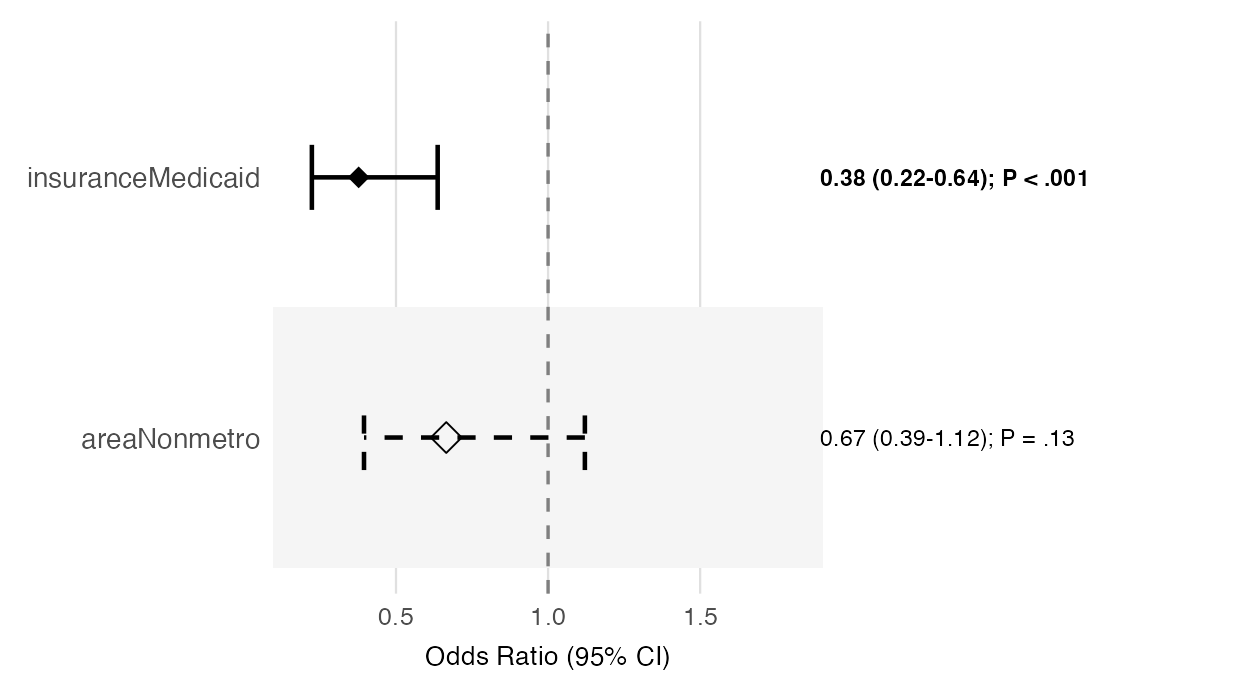
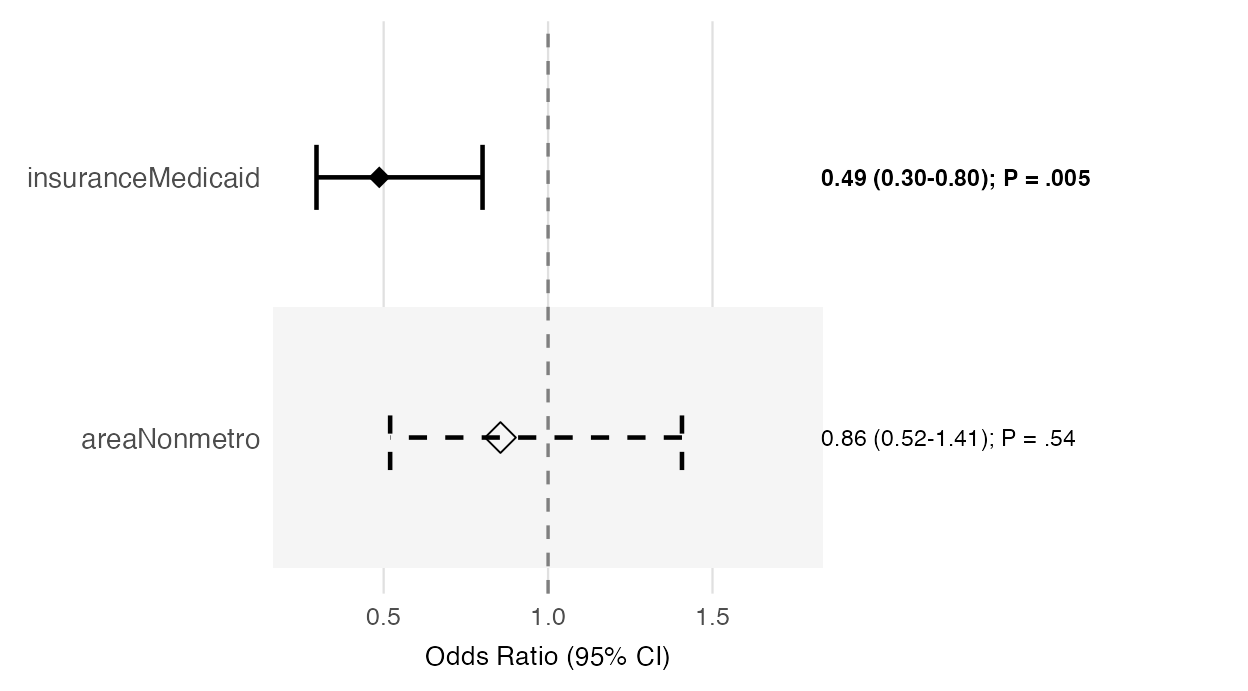
Deploy 1.6.2.9005: SDC vignette + Table1/ICC/power/diagnostics/reproducibility

diff --git a/articles/supplementary-digital-content.html b/articles/supplementary-digital-content.html
@@ -26,7 +26,7 @@
 
     <a class="navbar-brand me-2" href="../index.html">mysterycall</a>
 
-    <small class="nav-text text-muted me-auto" data-bs-toggle="tooltip" data-bs-placement="bottom" title="">1.6.2.9004</small>
+    <small class="nav-text text-muted me-auto" data-bs-toggle="tooltip" data-bs-placement="bottom" title="">1.6.2.9005</small>
 
 
     <button class="navbar-toggler" type="button" data-bs-toggle="collapse" data-bs-target="#navbar" aria-controls="navbar" aria-expanded="false" aria-label="Toggle navigation">
@@ -143,7 +143,8 @@ offer and a Poisson GLMM for the wait.</p>
 <span>  call_date  <span class="op">=</span> <span class="fu"><a href="https://rdrr.io/r/base/rep.html" class="external-link">rep</a></span><span class="op">(</span><span class="fu"><a href="https://rdrr.io/r/base/as.Date.html" class="external-link">as.Date</a></span><span class="op">(</span><span class="st">"2026-01-05"</span><span class="op">)</span> <span class="op">+</span> <span class="fu"><a href="https://rdrr.io/r/base/sample.html" class="external-link">sample</a></span><span class="op">(</span><span class="fl">0</span><span class="op">:</span><span class="fl">40</span>, <span class="va">n</span>, <span class="cn">TRUE</span><span class="op">)</span>, each <span class="op">=</span> <span class="fl">2</span><span class="op">)</span>,</span>
 <span>  state      <span class="op">=</span> <span class="fu"><a href="https://rdrr.io/r/base/rep.html" class="external-link">rep</a></span><span class="op">(</span><span class="va">st</span>, each <span class="op">=</span> <span class="fl">2</span><span class="op">)</span>,</span>
 <span>  city       <span class="op">=</span> <span class="fu"><a href="https://rdrr.io/r/base/rep.html" class="external-link">rep</a></span><span class="op">(</span><span class="fu"><a href="https://rdrr.io/r/base/unlist.html" class="external-link">unlist</a></span><span class="op">(</span><span class="va">cities</span><span class="op">)</span><span class="op">[</span><span class="va">st</span><span class="op">]</span>, each <span class="op">=</span> <span class="fl">2</span><span class="op">)</span>,</span>
-<span>  area       <span class="op">=</span> <span class="fu"><a href="https://rdrr.io/r/base/rep.html" class="external-link">rep</a></span><span class="op">(</span><span class="fu"><a href="https://rdrr.io/r/base/sample.html" class="external-link">sample</a></span><span class="op">(</span><span class="fu"><a href="https://rdrr.io/r/base/c.html" class="external-link">c</a></span><span class="op">(</span><span class="st">"Metro"</span>, <span class="st">"Nonmetro"</span><span class="op">)</span>, <span class="va">n</span>, <span class="cn">TRUE</span><span class="op">)</span>, each <span class="op">=</span> <span class="fl">2</span><span class="op">)</span></span>
+<span>  area       <span class="op">=</span> <span class="fu"><a href="https://rdrr.io/r/base/rep.html" class="external-link">rep</a></span><span class="op">(</span><span class="fu"><a href="https://rdrr.io/r/base/sample.html" class="external-link">sample</a></span><span class="op">(</span><span class="fu"><a href="https://rdrr.io/r/base/c.html" class="external-link">c</a></span><span class="op">(</span><span class="st">"Metro"</span>, <span class="st">"Nonmetro"</span><span class="op">)</span>, <span class="va">n</span>, <span class="cn">TRUE</span><span class="op">)</span>, each <span class="op">=</span> <span class="fl">2</span><span class="op">)</span>,</span>
+<span>  degree     <span class="op">=</span> <span class="fu"><a href="https://rdrr.io/r/base/rep.html" class="external-link">rep</a></span><span class="op">(</span><span class="fu"><a href="https://rdrr.io/r/base/sample.html" class="external-link">sample</a></span><span class="op">(</span><span class="fu"><a href="https://rdrr.io/r/base/c.html" class="external-link">c</a></span><span class="op">(</span><span class="st">"MD"</span>, <span class="st">"DO"</span><span class="op">)</span>, <span class="va">n</span>, <span class="cn">TRUE</span>, <span class="fu"><a href="https://rdrr.io/r/base/c.html" class="external-link">c</a></span><span class="op">(</span><span class="fl">.8</span>, <span class="fl">.2</span><span class="op">)</span><span class="op">)</span>, each <span class="op">=</span> <span class="fl">2</span><span class="op">)</span></span>
 <span><span class="op">)</span></span>
 <span><span class="va">med</span> <span class="op">&lt;-</span> <span class="va">d</span><span class="op">$</span><span class="va">insurance</span> <span class="op">==</span> <span class="st">"Medicaid"</span></span>
 <span><span class="va">d</span><span class="op">$</span><span class="va">reached</span> <span class="op">&lt;-</span> <span class="fu"><a href="https://rdrr.io/r/stats/Binomial.html" class="external-link">rbinom</a></span><span class="op">(</span><span class="fu"><a href="https://rdrr.io/r/base/nrow.html" class="external-link">nrow</a></span><span class="op">(</span><span class="va">d</span><span class="op">)</span>, <span class="fl">1</span>, <span class="fl">0.92</span><span class="op">)</span> <span class="op">==</span> <span class="fl">1</span>   <span class="co"># some calls never reached a live office</span></span>
@@ -188,13 +189,13 @@ coefficient to its term.</p>
 <span><span class="va">tS1</span></span>
 <span><span class="co">#&gt; Multi-model regression table  [OR (95% CI)]</span></span>
 <span><span class="co">#&gt; ------------------------------------------------------------ </span></span>
-<span><span class="co">#&gt;  Term                Crude                        Adjusted                    </span></span>
-<span><span class="co">#&gt;  insuranceCommercial Ref.                         Ref.                        </span></span>
-<span><span class="co">#&gt;  insuranceMedicaid   0.38 (0.23-0.64) | p=&lt; 0.001 0.38 (0.22-0.64) | p=&lt; 0.001</span></span>
-<span><span class="co">#&gt;  areaMetro                                        Ref.                        </span></span>
-<span><span class="co">#&gt;  areaNonmetro                                     0.67 (0.39-1.12) | p=0.126  </span></span>
-<span><span class="co">#&gt;  N                   300                          300                         </span></span>
-<span><span class="co">#&gt;  AIC                 353.5                        353.1                       </span></span>
+<span><span class="co">#&gt;  Term                Crude                      Adjusted                  </span></span>
+<span><span class="co">#&gt;  insuranceCommercial Ref.                       Ref.                      </span></span>
+<span><span class="co">#&gt;  insuranceMedicaid   0.49 (0.30-0.80) | p=0.005 0.49 (0.30-0.80) | p=0.005</span></span>
+<span><span class="co">#&gt;  areaMetro                                      Ref.                      </span></span>
+<span><span class="co">#&gt;  areaNonmetro                                   0.86 (0.52-1.41) | p=0.538</span></span>
+<span><span class="co">#&gt;  N                   300                        300                       </span></span>
+<span><span class="co">#&gt;  AIC                 372.4                      374.0                     </span></span>
 <span><span class="co">#&gt; ------------------------------------------------------------</span></span></code></pre></div>
 <p><strong>Table S2 — the disparity, with confidence
 intervals.</strong></p>
@@ -205,14 +206,14 @@ intervals.</strong></p>
 <span><span class="co">#&gt; Disparity table -- 2 groups | ref: 'Commercial' | wilson 95% CI</span></span>
 <span><span class="co">#&gt; Group                       n  n_acc     Rate  95% CI            Abs.Diff  RR (95% CI)             p-value</span></span>
 <span><span class="co">#&gt; ---------------------------------------------------------------------------------------------------- </span></span>
-<span><span class="co">#&gt; Commercial                150    121    80.7%  73.6%-86.2%          (ref)  1.00 (ref)              (ref)</span></span>
-<span><span class="co">#&gt; Medicaid                  150     92    61.3%  53.3%-68.8%       -19.3 pp  0.76 (0.65-0.88)        p &lt; 0.001</span></span></code></pre></div>
+<span><span class="co">#&gt; Commercial                150    114    76.0%  68.6%-82.1%          (ref)  1.00 (ref)              (ref)</span></span>
+<span><span class="co">#&gt; Medicaid                  150     91    60.7%  52.7%-68.1%       -15.3 pp  0.80 (0.68-0.93)        p = 0.004</span></span></code></pre></div>
 <p><strong>Table S3 — adjusted effect on the absolute
 scale.</strong></p>
 <div class="sourceCode" id="cb7"><pre class="downlit sourceCode r">
 <code class="sourceCode R"><span><span class="fu"><a href="../reference/mysterycall_combined_results_table.html">mysterycall_combined_results_table</a></span><span class="op">(</span><span class="va">wait_model</span><span class="op">)</span></span>
 <span><span class="co">#&gt;                Term  IRR IRR 95% CI p-value Days Diff Days 95% CI Significance</span></span>
-<span><span class="co">#&gt; 1 insuranceMedicaid 1.56  1.44-1.68 &lt; 0.001      &lt;NA&gt;        &lt;NA&gt;            *</span></span></code></pre></div>
+<span><span class="co">#&gt; 1 insuranceMedicaid 1.52  1.41-1.64 &lt; 0.001      &lt;NA&gt;        &lt;NA&gt;            *</span></span></code></pre></div>
 <p><strong>Table S4 — this study against prior work.</strong></p>
 <div class="sourceCode" id="cb8"><pre class="downlit sourceCode r">
 <code class="sourceCode R"><span><span class="va">prior</span> <span class="op">&lt;-</span> <span class="fu"><a href="https://rdrr.io/r/base/data.frame.html" class="external-link">data.frame</a></span><span class="op">(</span></span>
@@ -248,9 +249,9 @@ completely at random” and a threat to validity.</p>
 <span>  <span class="va">d</span>, outcome_col <span class="op">=</span> <span class="st">"wait_days"</span>, group_col <span class="op">=</span> <span class="st">"insurance"</span><span class="op">)</span></span>
 <span><span class="va">miss</span><span class="op">$</span><span class="va">summary</span></span>
 <span><span class="co">#&gt;    variable n_observed n_missing pct_missing       test statistic df    p_value</span></span>
-<span><span class="co">#&gt; 1 insurance        300         0        38.3 Chi-square  4.075206  1 0.04351697</span></span>
+<span><span class="co">#&gt; 1 insurance        300         0        40.7 Chi-square  2.707681  1 0.09986607</span></span>
 <span><span class="co">#&gt;   significant</span></span>
-<span><span class="co">#&gt; 1        TRUE</span></span></code></pre></div>
+<span><span class="co">#&gt; 1       FALSE</span></span></code></pre></div>
 </div>
 <div class="section level2">
 <h2 id="per-caller-evaluation">5. Per-caller evaluation<a class="anchor" aria-label="anchor" href="#per-caller-evaluation"></a>
@@ -264,11 +265,11 @@ would flag a standardization problem.</p>
 <code class="sourceCode R"><span><span class="fu"><a href="../reference/mysterycall_call_productivity.html">mysterycall_call_productivity</a></span><span class="op">(</span></span>
 <span>  <span class="va">d</span>, caller_col <span class="op">=</span> <span class="st">"caller"</span>, date_col <span class="op">=</span> <span class="st">"call_date"</span>, outcome_col <span class="op">=</span> <span class="st">"appt_offered"</span><span class="op">)</span></span>
 <span><span class="co">#&gt;   caller n_calls n_days calls_per_day n_accepted acceptance_rate mean_hold_sec</span></span>
-<span><span class="co">#&gt; 1    RA2      74     23      3.217391         52           70.3%            NA</span></span>
-<span><span class="co">#&gt; 2    RA4      58     18      3.222222         44           75.9%            NA</span></span>
-<span><span class="co">#&gt; 3    RA5      58     21      2.761905         41           70.7%            NA</span></span>
-<span><span class="co">#&gt; 4    RA1      56     18      3.111111         39           69.6%            NA</span></span>
-<span><span class="co">#&gt; 5    RA3      54     19      2.842105         37           68.5%            NA</span></span>
+<span><span class="co">#&gt; 1    RA2      74     23      3.217391         45           60.8%            NA</span></span>
+<span><span class="co">#&gt; 2    RA4      58     18      3.222222         41           70.7%            NA</span></span>
+<span><span class="co">#&gt; 3    RA5      58     21      2.761905         43           74.1%            NA</span></span>
+<span><span class="co">#&gt; 4    RA1      56     18      3.111111         40           71.4%            NA</span></span>
+<span><span class="co">#&gt; 5    RA3      54     19      2.842105         36           66.7%            NA</span></span>
 <span><span class="co">#&gt;   mean_call_sec</span></span>
 <span><span class="co">#&gt; 1            NA</span></span>
 <span><span class="co">#&gt; 2            NA</span></span>
@@ -395,9 +396,9 @@ to failure, then to success:</p>
 <div class="sourceCode" id="cb20"><pre class="downlit sourceCode r">
 <code class="sourceCode R"><span><span class="fu"><a href="../reference/mysterycall_outcome_bounds.html">mysterycall_outcome_bounds</a></span><span class="op">(</span><span class="va">d</span>, <span class="st">"appt_offered"</span>, observed <span class="op">=</span> <span class="st">"reached"</span><span class="op">)</span></span>
 <span><span class="co">#&gt; &lt;mysterycall outcome bounds under non-response&gt;</span></span>
-<span><span class="co">#&gt;   universe 300 = observed 270 + missing 30; positives 191</span></span>
-<span><span class="co">#&gt;   complete-case rate: 70.7%  (95% CI 65.1%-75.8%)</span></span>
-<span><span class="co">#&gt;   bounds over universe: [63.7% (all missing fail), 73.7% (all succeed)]  width 10.0%</span></span></code></pre></div>
+<span><span class="co">#&gt;   universe 300 = observed 280 + missing 20; positives 191</span></span>
+<span><span class="co">#&gt;   complete-case rate: 68.2%  (95% CI 62.5%-73.4%)</span></span>
+<span><span class="co">#&gt;   bounds over universe: [63.7% (all missing fail), 70.3% (all succeed)]  width 6.7%</span></span></code></pre></div>
 <p><strong>Leave-one-caller-out.</strong> Confirm the exposure effect
 does not hinge on a single research assistant by refitting with each
 caller dropped in turn:</p>
@@ -405,15 +406,15 @@ caller dropped in turn:</p>
 <code class="sourceCode R"><span><span class="va">fit_glm</span> <span class="op">&lt;-</span> <span class="fu"><a href="https://rdrr.io/r/stats/glm.html" class="external-link">glm</a></span><span class="op">(</span><span class="va">appt_offered</span> <span class="op">~</span> <span class="va">insurance</span> <span class="op">+</span> <span class="va">area</span>, <span class="va">binomial</span>, <span class="va">d</span><span class="op">)</span></span>
 <span><span class="fu"><a href="../reference/mysterycall_leave_one_out.html">mysterycall_leave_one_out</a></span><span class="op">(</span><span class="va">fit_glm</span>, <span class="va">d</span>, group <span class="op">=</span> <span class="st">"caller"</span>, term <span class="op">=</span> <span class="st">"insuranceMedicaid"</span><span class="op">)</span></span>
 <span><span class="co">#&gt; &lt;mysterycall leave-one-group-out: term 'insuranceMedicaid', 5 refits&gt;</span></span>
-<span><span class="co">#&gt;   full-data ratio: 0.38 (p = 0.000266)</span></span>
+<span><span class="co">#&gt;   full-data ratio: 0.49 (p = 0.00459)</span></span>
 <span><span class="co">#&gt; <span style="color: #949494;"># A tibble: 5 × 7</span></span></span>
-<span><span class="co">#&gt;   group_excluded     n estimate ratio std_error  p_value converged</span></span>
-<span><span class="co">#&gt;   <span style="color: #949494; font-style: italic;">&lt;chr&gt;</span>          <span style="color: #949494; font-style: italic;">&lt;int&gt;</span>    <span style="color: #949494; font-style: italic;">&lt;dbl&gt;</span> <span style="color: #949494; font-style: italic;">&lt;dbl&gt;</span>     <span style="color: #949494; font-style: italic;">&lt;dbl&gt;</span>    <span style="color: #949494; font-style: italic;">&lt;dbl&gt;</span> <span style="color: #949494; font-style: italic;">&lt;lgl&gt;</span>    </span></span>
-<span><span class="co">#&gt; <span style="color: #BCBCBC;">1</span> RA1              244   -<span style="color: #BB0000;">0.998</span> 0.369     0.298 0.000<span style="text-decoration: underline;">807</span> TRUE     </span></span>
-<span><span class="co">#&gt; <span style="color: #BCBCBC;">2</span> RA2              226   -<span style="color: #BB0000;">1.06</span>  0.345     0.316 0.000<span style="text-decoration: underline;">743</span> TRUE     </span></span>
-<span><span class="co">#&gt; <span style="color: #BCBCBC;">3</span> RA3              246   -<span style="color: #BB0000;">0.824</span> 0.439     0.294 0.004<span style="text-decoration: underline;">99</span>  TRUE     </span></span>
-<span><span class="co">#&gt; <span style="color: #BCBCBC;">4</span> RA4              242   -<span style="color: #BB0000;">1.01</span>  0.363     0.294 0.000<span style="text-decoration: underline;">570</span> TRUE     </span></span>
-<span><span class="co">#&gt; <span style="color: #BCBCBC;">5</span> RA5              242   -<span style="color: #BB0000;">1.00</span>  0.368     0.298 0.000<span style="text-decoration: underline;">796</span> TRUE</span></span></code></pre></div>
+<span><span class="co">#&gt;   group_excluded     n estimate ratio std_error p_value converged</span></span>
+<span><span class="co">#&gt;   <span style="color: #949494; font-style: italic;">&lt;chr&gt;</span>          <span style="color: #949494; font-style: italic;">&lt;int&gt;</span>    <span style="color: #949494; font-style: italic;">&lt;dbl&gt;</span> <span style="color: #949494; font-style: italic;">&lt;dbl&gt;</span>     <span style="color: #949494; font-style: italic;">&lt;dbl&gt;</span>   <span style="color: #949494; font-style: italic;">&lt;dbl&gt;</span> <span style="color: #949494; font-style: italic;">&lt;lgl&gt;</span>    </span></span>
+<span><span class="co">#&gt; <span style="color: #BCBCBC;">1</span> RA1              244   -<span style="color: #BB0000;">0.570</span> 0.566     0.278 0.040<span style="text-decoration: underline;">5</span>  TRUE     </span></span>
+<span><span class="co">#&gt; <span style="color: #BCBCBC;">2</span> RA2              226   -<span style="color: #BB0000;">0.786</span> 0.455     0.301 0.009<span style="text-decoration: underline;">10</span> TRUE     </span></span>
+<span><span class="co">#&gt; <span style="color: #BCBCBC;">3</span> RA3              246   -<span style="color: #BB0000;">0.730</span> 0.482     0.282 0.009<span style="text-decoration: underline;">56</span> TRUE     </span></span>
+<span><span class="co">#&gt; <span style="color: #BCBCBC;">4</span> RA4              242   -<span style="color: #BB0000;">0.614</span> 0.541     0.280 0.028<span style="text-decoration: underline;">4</span>  TRUE     </span></span>
+<span><span class="co">#&gt; <span style="color: #BCBCBC;">5</span> RA5              242   -<span style="color: #BB0000;">0.918</span> 0.399     0.283 0.001<span style="text-decoration: underline;">19</span> TRUE</span></span></code></pre></div>
 <p>Other analyses worth including, each a single call: the wait model
 under an alternative count family
 (<code><a href="../reference/mysterycall_compare_count_families.html">mysterycall_compare_count_families()</a></code>), calendar vs.
@@ -423,26 +424,145 @@ physician”), and Benjamini–Hochberg-adjusted p-values
 (<code><a href="../reference/mysterycall_multiple_comparison_adjust.html">mysterycall_multiple_comparison_adjust()</a></code>).</p>
 </div>
 <div class="section level2">
-<h2 id="export-and-manifest">10. Export and manifest<a class="anchor" aria-label="anchor" href="#export-and-manifest"></a>
+<h2 id="baseline-characteristics-table-1">10. Baseline characteristics (Table 1)<a class="anchor" aria-label="anchor" href="#baseline-characteristics-table-1"></a>
+</h2>
+<p>Reviewers want to know who was sampled.
+<code><a href="../reference/mysterycall_table1.html">mysterycall_table1()</a></code> builds a publication-ready baseline
+table at the practice level:</p>
+<div class="sourceCode" id="cb22"><pre class="downlit sourceCode r">
+<code class="sourceCode R"><span><span class="va">practices</span> <span class="op">&lt;-</span> <span class="fu"><a href="https://rdrr.io/r/base/unique.html" class="external-link">unique</a></span><span class="op">(</span><span class="va">d</span><span class="op">[</span>, <span class="fu"><a href="https://rdrr.io/r/base/c.html" class="external-link">c</a></span><span class="op">(</span><span class="st">"npi"</span>, <span class="st">"state"</span>, <span class="st">"area"</span>, <span class="st">"degree"</span><span class="op">)</span><span class="op">]</span><span class="op">)</span></span>
+<span><span class="fu"><a href="../reference/mysterycall_table1.html">mysterycall_table1</a></span><span class="op">(</span><span class="va">practices</span>, covariates <span class="op">=</span> <span class="fu"><a href="https://rdrr.io/r/base/c.html" class="external-link">c</a></span><span class="op">(</span><span class="st">"state"</span>, <span class="st">"degree"</span><span class="op">)</span>,</span>
+<span>                   stratify_by <span class="op">=</span> <span class="st">"area"</span>, include_overall <span class="op">=</span> <span class="cn">TRUE</span><span class="op">)</span></span>
+<span><span class="co">#&gt; Table 1 (Overall N=150, Metro N=67, Nonmetro N=83)</span></span>
+<span><span class="co">#&gt; Stratified by: area</span></span>
+<span><span class="co">#&gt; </span></span>
+<span><span class="co">#&gt; <span style="color: #949494;"># A tibble: 8 × 6</span></span></span>
+<span><span class="co">#&gt;   variable level Overall     `Metro (N=67)` `Nonmetro (N=83)` p_value</span></span>
+<span><span class="co">#&gt;   <span style="color: #949494; font-style: italic;">&lt;chr&gt;</span>    <span style="color: #949494; font-style: italic;">&lt;chr&gt;</span> <span style="color: #949494; font-style: italic;">&lt;chr&gt;</span>       <span style="color: #949494; font-style: italic;">&lt;chr&gt;</span>          <span style="color: #949494; font-style: italic;">&lt;chr&gt;</span>             <span style="color: #949494; font-style: italic;">&lt;chr&gt;</span>  </span></span>
+<span><span class="co">#&gt; <span style="color: #BCBCBC;">1</span> state    CA    29 (19.3%)  16 (23.9%)     13 (15.7%)        0.046  </span></span>
+<span><span class="co">#&gt; <span style="color: #BCBCBC;">2</span> state    CO    27 (18.0%)  12 (17.9%)     15 (18.1%)        <span style="color: #BB0000;">NA</span>     </span></span>
+<span><span class="co">#&gt; <span style="color: #BCBCBC;">3</span> state    FL    36 (24.0%)  11 (16.4%)     25 (30.1%)        <span style="color: #BB0000;">NA</span>     </span></span>
+<span><span class="co">#&gt; <span style="color: #BCBCBC;">4</span> state    IL    15 (10.0%)  4 (6.0%)       11 (13.3%)        <span style="color: #BB0000;">NA</span>     </span></span>
+<span><span class="co">#&gt; <span style="color: #BCBCBC;">5</span> state    NY    20 (13.3%)  14 (20.9%)     6 (7.2%)          <span style="color: #BB0000;">NA</span>     </span></span>
+<span><span class="co">#&gt; <span style="color: #BCBCBC;">6</span> state    TX    23 (15.3%)  10 (14.9%)     13 (15.7%)        <span style="color: #BB0000;">NA</span>     </span></span>
+<span><span class="co">#&gt; <span style="color: #BCBCBC;">7</span> degree   DO    42 (28.0%)  16 (23.9%)     26 (31.3%)        0.313  </span></span>
+<span><span class="co">#&gt; <span style="color: #BCBCBC;">8</span> degree   MD    108 (72.0%) 51 (76.1%)     57 (68.7%)        <span style="color: #BB0000;">NA</span></span></span></code></pre></div>
+</div>
+<div class="section level2">
+<h2 id="full-model-output-icc-and-variance-components">11. Full model output: ICC and variance components<a class="anchor" aria-label="anchor" href="#full-model-output-icc-and-variance-components"></a>
+</h2>
+<p>The SDC should report more than the exposure coefficient — the
+clustering matters. <code><a href="../reference/mysterycall_icc.html">mysterycall_icc()</a></code> gives the intraclass
+correlation (how much of the variation sits between practices), and
+<code><a href="../reference/mysterycall_random_effect_variance.html">mysterycall_random_effect_variance()</a></code> the variance
+components:</p>
+<div class="sourceCode" id="cb23"><pre class="downlit sourceCode r">
+<code class="sourceCode R"><span><span class="fu"><a href="../reference/mysterycall_icc.html">mysterycall_icc</a></span><span class="op">(</span><span class="va">wait_model</span><span class="op">)</span></span>
+<span><span class="co">#&gt; Intraclass Correlation Coefficient (latent_variable_poisson)</span></span>
+<span><span class="co">#&gt;   ICC       = 0.0000</span></span>
+<span><span class="co">#&gt;   sigma2_u  = 0.0000  (physician random-intercept variance)</span></span>
+<span><span class="co">#&gt; </span></span>
+<span><span class="co">#&gt; ICC = 0.000: 0.0% of outcome variance is attributable to between-physician clustering.</span></span>
+<span><span class="fu"><a href="../reference/mysterycall_random_effect_variance.html">mysterycall_random_effect_variance</a></span><span class="op">(</span><span class="va">wait_model</span><span class="op">$</span><span class="va">model</span><span class="op">)</span></span>
+<span><span class="co">#&gt; $icc</span></span>
+<span><span class="co">#&gt; [1] 0</span></span>
+<span><span class="co">#&gt; </span></span>
+<span><span class="co">#&gt; $random_variance</span></span>
+<span><span class="co">#&gt; [1] 0</span></span>
+<span><span class="co">#&gt; </span></span>
+<span><span class="co">#&gt; $residual_variance</span></span>
+<span><span class="co">#&gt; [1] 1</span></span>
+<span><span class="co">#&gt; </span></span>
+<span><span class="co">#&gt; $random_effect_group</span></span>
+<span><span class="co">#&gt; [1] "npi"</span></span>
+<span><span class="co">#&gt; </span></span>
+<span><span class="co">#&gt; $var_table</span></span>
+<span><span class="co">#&gt;   grp        var1 var2 vcov sdcor Significant</span></span>
+<span><span class="co">#&gt; 1 npi (Intercept) &lt;NA&gt;    0     0          No</span></span>
+<span><span class="co">#&gt; </span></span>
+<span><span class="co">#&gt; $interpretation</span></span>
+<span><span class="co">#&gt; [1] "low"</span></span>
+<span><span class="co">#&gt; </span></span>
+<span><span class="co">#&gt; $sentence</span></span>
+<span><span class="co">#&gt; [1] "The intraclass correlation (ICC) of the model for the random effect group 'npi' is 0. An ICC of 0 is considered low, suggesting that most variance is at the individual level rather than between groups of 'npi'."</span></span></code></pre></div>
+</div>
+<div class="section level2">
+<h2 id="a-priori-power">12. A priori power<a class="anchor" aria-label="anchor" href="#a-priori-power"></a>
+</h2>
+<p>Journals require the pre-specified power calculation.
+<code><a href="../reference/mysterycall_poisson_power.html">mysterycall_poisson_power()</a></code> sizes the wait-time comparison
+for a target incidence-rate ratio:</p>
+<div class="sourceCode" id="cb24"><pre class="downlit sourceCode r">
+<code class="sourceCode R"><span><span class="fu"><a href="../reference/mysterycall_poisson_power.html">mysterycall_poisson_power</a></span><span class="op">(</span>irr <span class="op">=</span> <span class="fl">1.40</span>, lambda_ref <span class="op">=</span> <span class="fl">14</span>, power <span class="op">=</span> <span class="fl">0.80</span>,</span>
+<span>                          both_arms <span class="op">=</span> <span class="cn">TRUE</span><span class="op">)</span></span>
+<span><span class="co">#&gt; $n_per_arm</span></span>
+<span><span class="co">#&gt; [1] 9</span></span>
+<span><span class="co">#&gt; </span></span>
+<span><span class="co">#&gt; $n_total</span></span>
+<span><span class="co">#&gt; [1] 9</span></span>
+<span><span class="co">#&gt; </span></span>
+<span><span class="co">#&gt; $n_total_calls</span></span>
+<span><span class="co">#&gt; [1] 18</span></span>
+<span><span class="co">#&gt; </span></span>
+<span><span class="co">#&gt; $irr</span></span>
+<span><span class="co">#&gt; [1] 1.4</span></span>
+<span><span class="co">#&gt; </span></span>
+<span><span class="co">#&gt; $lambda_ref</span></span>
+<span><span class="co">#&gt; [1] 14</span></span>
+<span><span class="co">#&gt; </span></span>
+<span><span class="co">#&gt; $lambda_trt</span></span>
+<span><span class="co">#&gt; [1] 19.6</span></span>
+<span><span class="co">#&gt; </span></span>
+<span><span class="co">#&gt; $alpha</span></span>
+<span><span class="co">#&gt; [1] 0.05</span></span>
+<span><span class="co">#&gt; </span></span>
+<span><span class="co">#&gt; $power</span></span>
+<span><span class="co">#&gt; [1] 0.8</span></span>
+<span><span class="co">#&gt; </span></span>
+<span><span class="co">#&gt; $design_effect</span></span>
+<span><span class="co">#&gt; [1] 1</span></span></code></pre></div>
+</div>
+<div class="section level2">
+<h2 id="model-diagnostics">13. Model diagnostics<a class="anchor" aria-label="anchor" href="#model-diagnostics"></a>
+</h2>
+<p>A residual figure justifies the model.
+<code><a href="../reference/mysterycall_plot_residuals.html">mysterycall_plot_residuals()</a></code> draws the diagnostic panel,
+and the fitted object already carries the overdispersion check:</p>
+<div class="sourceCode" id="cb25"><pre class="downlit sourceCode r">
+<code class="sourceCode R"><span><span class="fu"><a href="../reference/mysterycall_plot_residuals.html">mysterycall_plot_residuals</a></span><span class="op">(</span><span class="va">wait_model</span><span class="op">)</span></span></code></pre></div>
+<p><img src="supplementary-digital-content_files/figure-html/diagnostics-1.png" class="r-plt" alt="" width="624" style="display: block; margin: auto;"></p>
+</div>
+<div class="section level2">
+<h2 id="reproducibility">14. Reproducibility<a class="anchor" aria-label="anchor" href="#reproducibility"></a>
+</h2>
+<p>Finally, a reproducibility appendix — the R and package versions the
+analysis ran under, so the SDC is a complete, re-runnable record:</p>
+<div class="sourceCode" id="cb26"><pre class="downlit sourceCode r">
+<code class="sourceCode R"><span><span class="fu"><a href="../reference/mysterycall_session_snapshot.html">mysterycall_session_snapshot</a></span><span class="op">(</span></span>
+<span>  file <span class="op">=</span> <span class="fu"><a href="https://rdrr.io/r/base/file.path.html" class="external-link">file.path</a></span><span class="op">(</span><span class="va">sdc_dir</span>, <span class="st">"session_snapshot.txt"</span><span class="op">)</span>, quiet <span class="op">=</span> <span class="cn">TRUE</span>,</span>
+<span>  notes <span class="op">=</span> <span class="st">"Supplementary digital content build"</span><span class="op">)</span></span></code></pre></div>
+</div>
+<div class="section level2">
+<h2 id="export-and-manifest">15. Export and manifest<a class="anchor" aria-label="anchor" href="#export-and-manifest"></a>
 </h2>
 <p>Write each artifact in the format the journal wants — a CSV per table
 is the most portable, <code><a href="../reference/mysterycall_export_results_docx.html">mysterycall_export_results_docx()</a></code>
 gives formatted Word (needs officer/flextable), and
 <code><a href="../reference/mysterycall_supplemental_tables.html">mysterycall_supplemental_tables()</a></code> bundles every model table
 into one workbook (needs openxlsx):</p>
-<div class="sourceCode" id="cb22"><pre class="downlit sourceCode r">
+<div class="sourceCode" id="cb27"><pre class="downlit sourceCode r">
 <code class="sourceCode R"><span><span class="fu"><a href="https://rdrr.io/r/utils/write.table.html" class="external-link">write.csv</a></span><span class="op">(</span><span class="fu"><a href="https://rdrr.io/r/base/as.data.frame.html" class="external-link">as.data.frame</a></span><span class="op">(</span><span class="va">tS1</span><span class="op">)</span>, <span class="fu"><a href="https://rdrr.io/r/base/file.path.html" class="external-link">file.path</a></span><span class="op">(</span><span class="va">sdc_dir</span>, <span class="st">"TableS1_models.csv"</span><span class="op">)</span>,</span>
 <span>          row.names <span class="op">=</span> <span class="cn">FALSE</span><span class="op">)</span></span>
 <span><span class="fu"><a href="https://rdrr.io/r/utils/write.table.html" class="external-link">write.csv</a></span><span class="op">(</span><span class="va">tS2</span>, <span class="fu"><a href="https://rdrr.io/r/base/file.path.html" class="external-link">file.path</a></span><span class="op">(</span><span class="va">sdc_dir</span>, <span class="st">"TableS2_disparities.csv"</span><span class="op">)</span>, row.names <span class="op">=</span> <span class="cn">FALSE</span><span class="op">)</span></span>
 <span><span class="fu"><a href="https://rdrr.io/r/utils/write.table.html" class="external-link">write.csv</a></span><span class="op">(</span><span class="fu"><a href="https://rdrr.io/r/base/as.data.frame.html" class="external-link">as.data.frame</a></span><span class="op">(</span><span class="va">crisp</span><span class="op">)</span>, <span class="fu"><a href="https://rdrr.io/r/base/file.path.html" class="external-link">file.path</a></span><span class="op">(</span><span class="va">sdc_dir</span>, <span class="st">"ChecklistS1_CRiSP.csv"</span><span class="op">)</span>,</span>
 <span>          row.names <span class="op">=</span> <span class="cn">FALSE</span><span class="op">)</span></span></code></pre></div>
-<div class="sourceCode" id="cb23"><pre class="downlit sourceCode r">
+<div class="sourceCode" id="cb28"><pre class="downlit sourceCode r">
 <code class="sourceCode R"><span><span class="fu"><a href="../reference/mysterycall_supplemental_tables.html">mysterycall_supplemental_tables</a></span><span class="op">(</span></span>
 <span>  logistic_fit <span class="op">=</span> <span class="va">offer_adjusted</span>, poisson_fit <span class="op">=</span> <span class="va">wait_model</span>,</span>
 <span>  file <span class="op">=</span> <span class="fu"><a href="https://rdrr.io/r/base/file.path.html" class="external-link">file.path</a></span><span class="op">(</span><span class="va">sdc_dir</span>, <span class="st">"supplemental_tables.xlsx"</span><span class="op">)</span>, overwrite <span class="op">=</span> <span class="cn">TRUE</span><span class="op">)</span></span></code></pre></div>
 <p>Finally, a manifest — reviewers appreciate it, and it doubles as a
 build check:</p>
-<div class="sourceCode" id="cb24"><pre class="downlit sourceCode r">
+<div class="sourceCode" id="cb29"><pre class="downlit sourceCode r">
 <code class="sourceCode R"><span><span class="va">files</span> <span class="op">&lt;-</span> <span class="fu"><a href="https://rdrr.io/r/base/list.files.html" class="external-link">list.files</a></span><span class="op">(</span><span class="va">sdc_dir</span><span class="op">)</span></span>
 <span><span class="fu"><a href="https://rdrr.io/r/base/data.frame.html" class="external-link">data.frame</a></span><span class="op">(</span></span>
 <span>  file <span class="op">=</span> <span class="va">files</span>,</span>
@@ -455,20 +575,24 @@ build check:</p>
 <span><span class="co">#&gt; 3         figS1_forest.pdf figure</span></span>
 <span><span class="co">#&gt; 4         figS1_forest.png figure</span></span>
 <span><span class="co">#&gt; 5        figS1_forest.tiff figure</span></span>
-<span><span class="co">#&gt; 6 supplemental_tables.xlsx bundle</span></span>
-<span><span class="co">#&gt; 7       TableS1_models.csv  table</span></span>
-<span><span class="co">#&gt; 8  TableS2_disparities.csv  table</span></span></code></pre></div>
+<span><span class="co">#&gt; 6     session_snapshot.txt  other</span></span>
+<span><span class="co">#&gt; 7 supplemental_tables.xlsx bundle</span></span>
+<span><span class="co">#&gt; 8       TableS1_models.csv  table</span></span>
+<span><span class="co">#&gt; 9  TableS2_disparities.csv  table</span></span></code></pre></div>
 </div>
 <div class="section level2">
 <h2 id="recap">Recap<a class="anchor" aria-label="anchor" href="#recap"></a>
 </h2>
 <p>Every piece of a mystery-caller study’s supplementary digital content
-— the model equations, the crude-vs-adjusted and disparity tables, the
-missingness analysis, the per-caller evaluation, the forest and
-cumulative-access figures at journal specification, the practice and
-district maps, and the STROBE <strong>and</strong> CRiSP reporting
-checklists — comes from the same fitted models and call log with one
-call apiece, so the SDC regenerates itself whenever the analysis is
+— the model equations, a baseline Table 1, the crude-vs-adjusted and
+disparity tables, the ICC and variance components, the missingness
+analysis, the per-caller evaluation, the a-priori power calculation, the
+forest, cumulative-access, and residual figures at journal
+specification, the practice and district maps, the STROBE
+<strong>and</strong> CRiSP reporting checklists, non-response and
+leave-one-caller-out sensitivity analyses, and a reproducibility
+appendix — comes from the same fitted models and call log with one call
+apiece, so the SDC regenerates itself whenever the analysis is
 re-run.</p>
 </div>
   </main><aside class="col-md-3"><nav id="toc" aria-label="Table of contents"><h2>On this page</h2>

diff --git a/404.html b/404.html
@@ -31,7 +31,7 @@
 
     <a class="navbar-brand me-2" href="https://mufflyt.github.io/mysterycall/index.html">mysterycall</a>
 
-    <small class="nav-text text-muted me-auto" data-bs-toggle="tooltip" data-bs-placement="bottom" title="">1.6.2.9004</small>
+    <small class="nav-text text-muted me-auto" data-bs-toggle="tooltip" data-bs-placement="bottom" title="">1.6.2.9005</small>
 
 
     <button class="navbar-toggler" type="button" data-bs-toggle="collapse" data-bs-target="#navbar" aria-controls="navbar" aria-expanded="false" aria-label="Toggle navigation">

diff --git a/index.html b/index.html
@@ -33,7 +33,7 @@
 
     <a class="navbar-brand me-2" href="index.html">mysterycall</a>
 
-    <small class="nav-text text-muted me-auto" data-bs-toggle="tooltip" data-bs-placement="bottom" title="">1.6.2.9004</small>
+    <small class="nav-text text-muted me-auto" data-bs-toggle="tooltip" data-bs-placement="bottom" title="">1.6.2.9005</small>
 
 
     <button class="navbar-toggler" type="button" data-bs-toggle="collapse" data-bs-target="#navbar" aria-controls="navbar" aria-expanded="false" aria-label="Toggle navigation">

diff --git a/BUGS.html b/BUGS.html
@@ -7,7 +7,7 @@
 
     <a class="navbar-brand me-2" href="index.html">mysterycall</a>
 
-    <small class="nav-text text-muted me-auto" data-bs-toggle="tooltip" data-bs-placement="bottom" title="">1.6.2.9004</small>
+    <small class="nav-text text-muted me-auto" data-bs-toggle="tooltip" data-bs-placement="bottom" title="">1.6.2.9005</small>
 
 
     <button class="navbar-toggler" type="button" data-bs-toggle="collapse" data-bs-target="#navbar" aria-controls="navbar" aria-expanded="false" aria-label="Toggle navigation">

diff --git a/CHANGELOG.html b/CHANGELOG.html
@@ -7,7 +7,7 @@
 
     <a class="navbar-brand me-2" href="index.html">mysterycall</a>
 
-    <small class="nav-text text-muted me-auto" data-bs-toggle="tooltip" data-bs-placement="bottom" title="">1.6.2.9004</small>
+    <small class="nav-text text-muted me-auto" data-bs-toggle="tooltip" data-bs-placement="bottom" title="">1.6.2.9005</small>
 
 
     <button class="navbar-toggler" type="button" data-bs-toggle="collapse" data-bs-target="#navbar" aria-controls="navbar" aria-expanded="false" aria-label="Toggle navigation">

diff --git a/CODE_OF_CONDUCT.html b/CODE_OF_CONDUCT.html
@@ -7,7 +7,7 @@
 
     <a class="navbar-brand me-2" href="index.html">mysterycall</a>
 
-    <small class="nav-text text-muted me-auto" data-bs-toggle="tooltip" data-bs-placement="bottom" title="">1.6.2.9004</small>
+    <small class="nav-text text-muted me-auto" data-bs-toggle="tooltip" data-bs-placement="bottom" title="">1.6.2.9005</small>
 
 
     <button class="navbar-toggler" type="button" data-bs-toggle="collapse" data-bs-target="#navbar" aria-controls="navbar" aria-expanded="false" aria-label="Toggle navigation">

diff --git a/CONTRIBUTING.html b/CONTRIBUTING.html
@@ -7,7 +7,7 @@
 
     <a class="navbar-brand me-2" href="index.html">mysterycall</a>
 
-    <small class="nav-text text-muted me-auto" data-bs-toggle="tooltip" data-bs-placement="bottom" title="">1.6.2.9004</small>
+    <small class="nav-text text-muted me-auto" data-bs-toggle="tooltip" data-bs-placement="bottom" title="">1.6.2.9005</small>
 
 
     <button class="navbar-toggler" type="button" data-bs-toggle="collapse" data-bs-target="#navbar" aria-controls="navbar" aria-expanded="false" aria-label="Toggle navigation">

diff --git a/LICENSE-text.html b/LICENSE-text.html
@@ -7,7 +7,7 @@
 
     <a class="navbar-brand me-2" href="index.html">mysterycall</a>
 
-    <small class="nav-text text-muted me-auto" data-bs-toggle="tooltip" data-bs-placement="bottom" title="">1.6.2.9004</small>
+    <small class="nav-text text-muted me-auto" data-bs-toggle="tooltip" data-bs-placement="bottom" title="">1.6.2.9005</small>
 
 
     <button class="navbar-toggler" type="button" data-bs-toggle="collapse" data-bs-target="#navbar" aria-controls="navbar" aria-expanded="false" aria-label="Toggle navigation">

diff --git a/LICENSE.html b/LICENSE.html
@@ -7,7 +7,7 @@
 
     <a class="navbar-brand me-2" href="index.html">mysterycall</a>
 
-    <small class="nav-text text-muted me-auto" data-bs-toggle="tooltip" data-bs-placement="bottom" title="">1.6.2.9004</small>
+    <small class="nav-text text-muted me-auto" data-bs-toggle="tooltip" data-bs-placement="bottom" title="">1.6.2.9005</small>
 
 
     <button class="navbar-toggler" type="button" data-bs-toggle="collapse" data-bs-target="#navbar" aria-controls="navbar" aria-expanded="false" aria-label="Toggle navigation">

diff --git a/authors.html b/authors.html
@@ -7,7 +7,7 @@
 
     <a class="navbar-brand me-2" href="index.html">mysterycall</a>
 
-    <small class="nav-text text-muted me-auto" data-bs-toggle="tooltip" data-bs-placement="bottom" title="">1.6.2.9004</small>
+    <small class="nav-text text-muted me-auto" data-bs-toggle="tooltip" data-bs-placement="bottom" title="">1.6.2.9005</small>
 
 
     <button class="navbar-toggler" type="button" data-bs-toggle="collapse" data-bs-target="#navbar" aria-controls="navbar" aria-expanded="false" aria-label="Toggle navigation">
